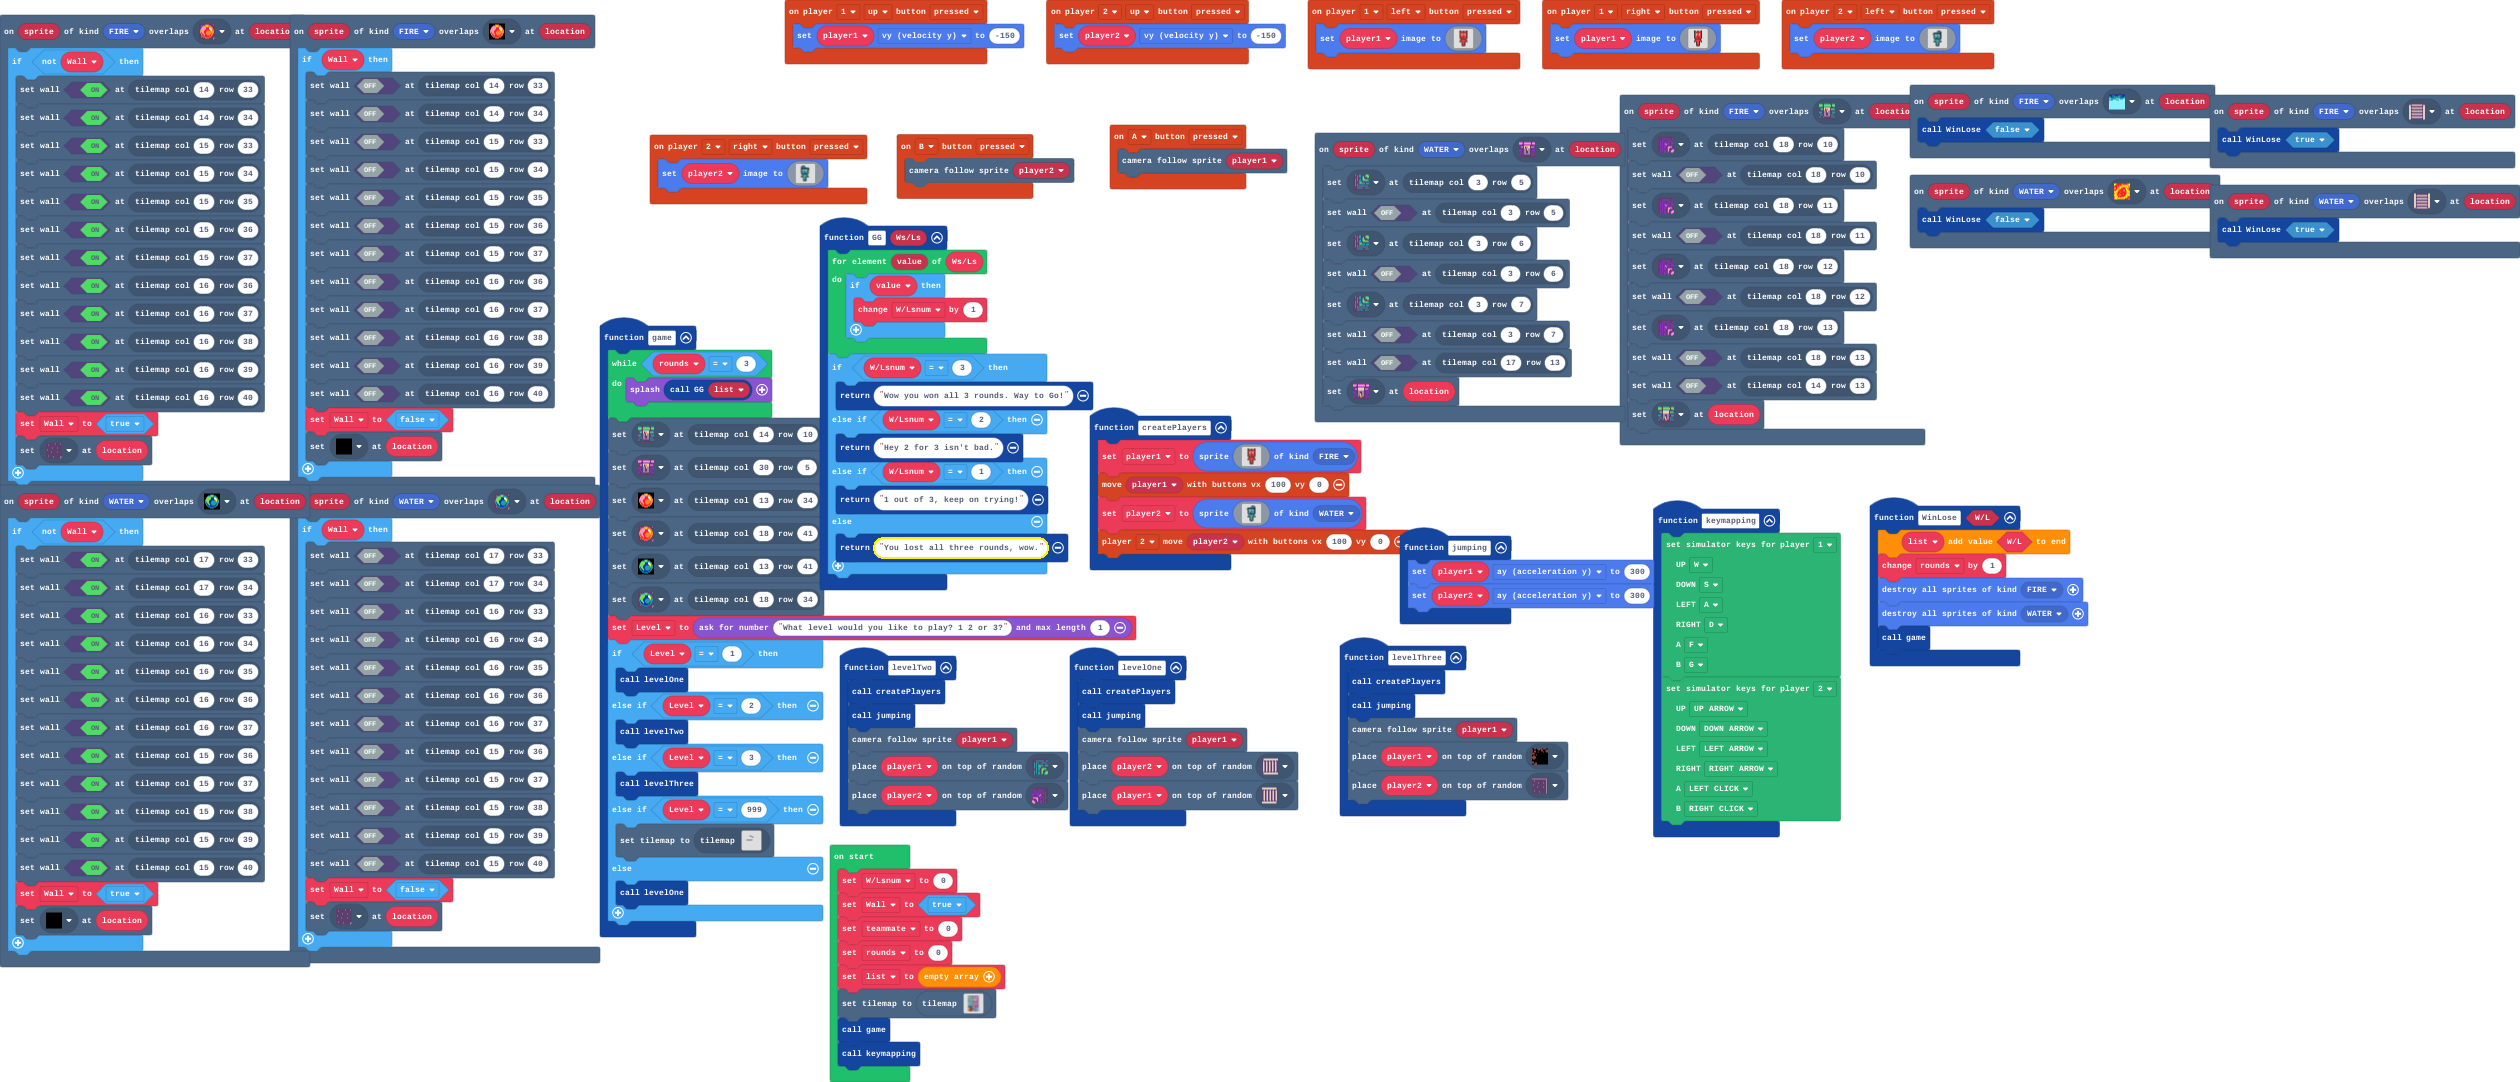
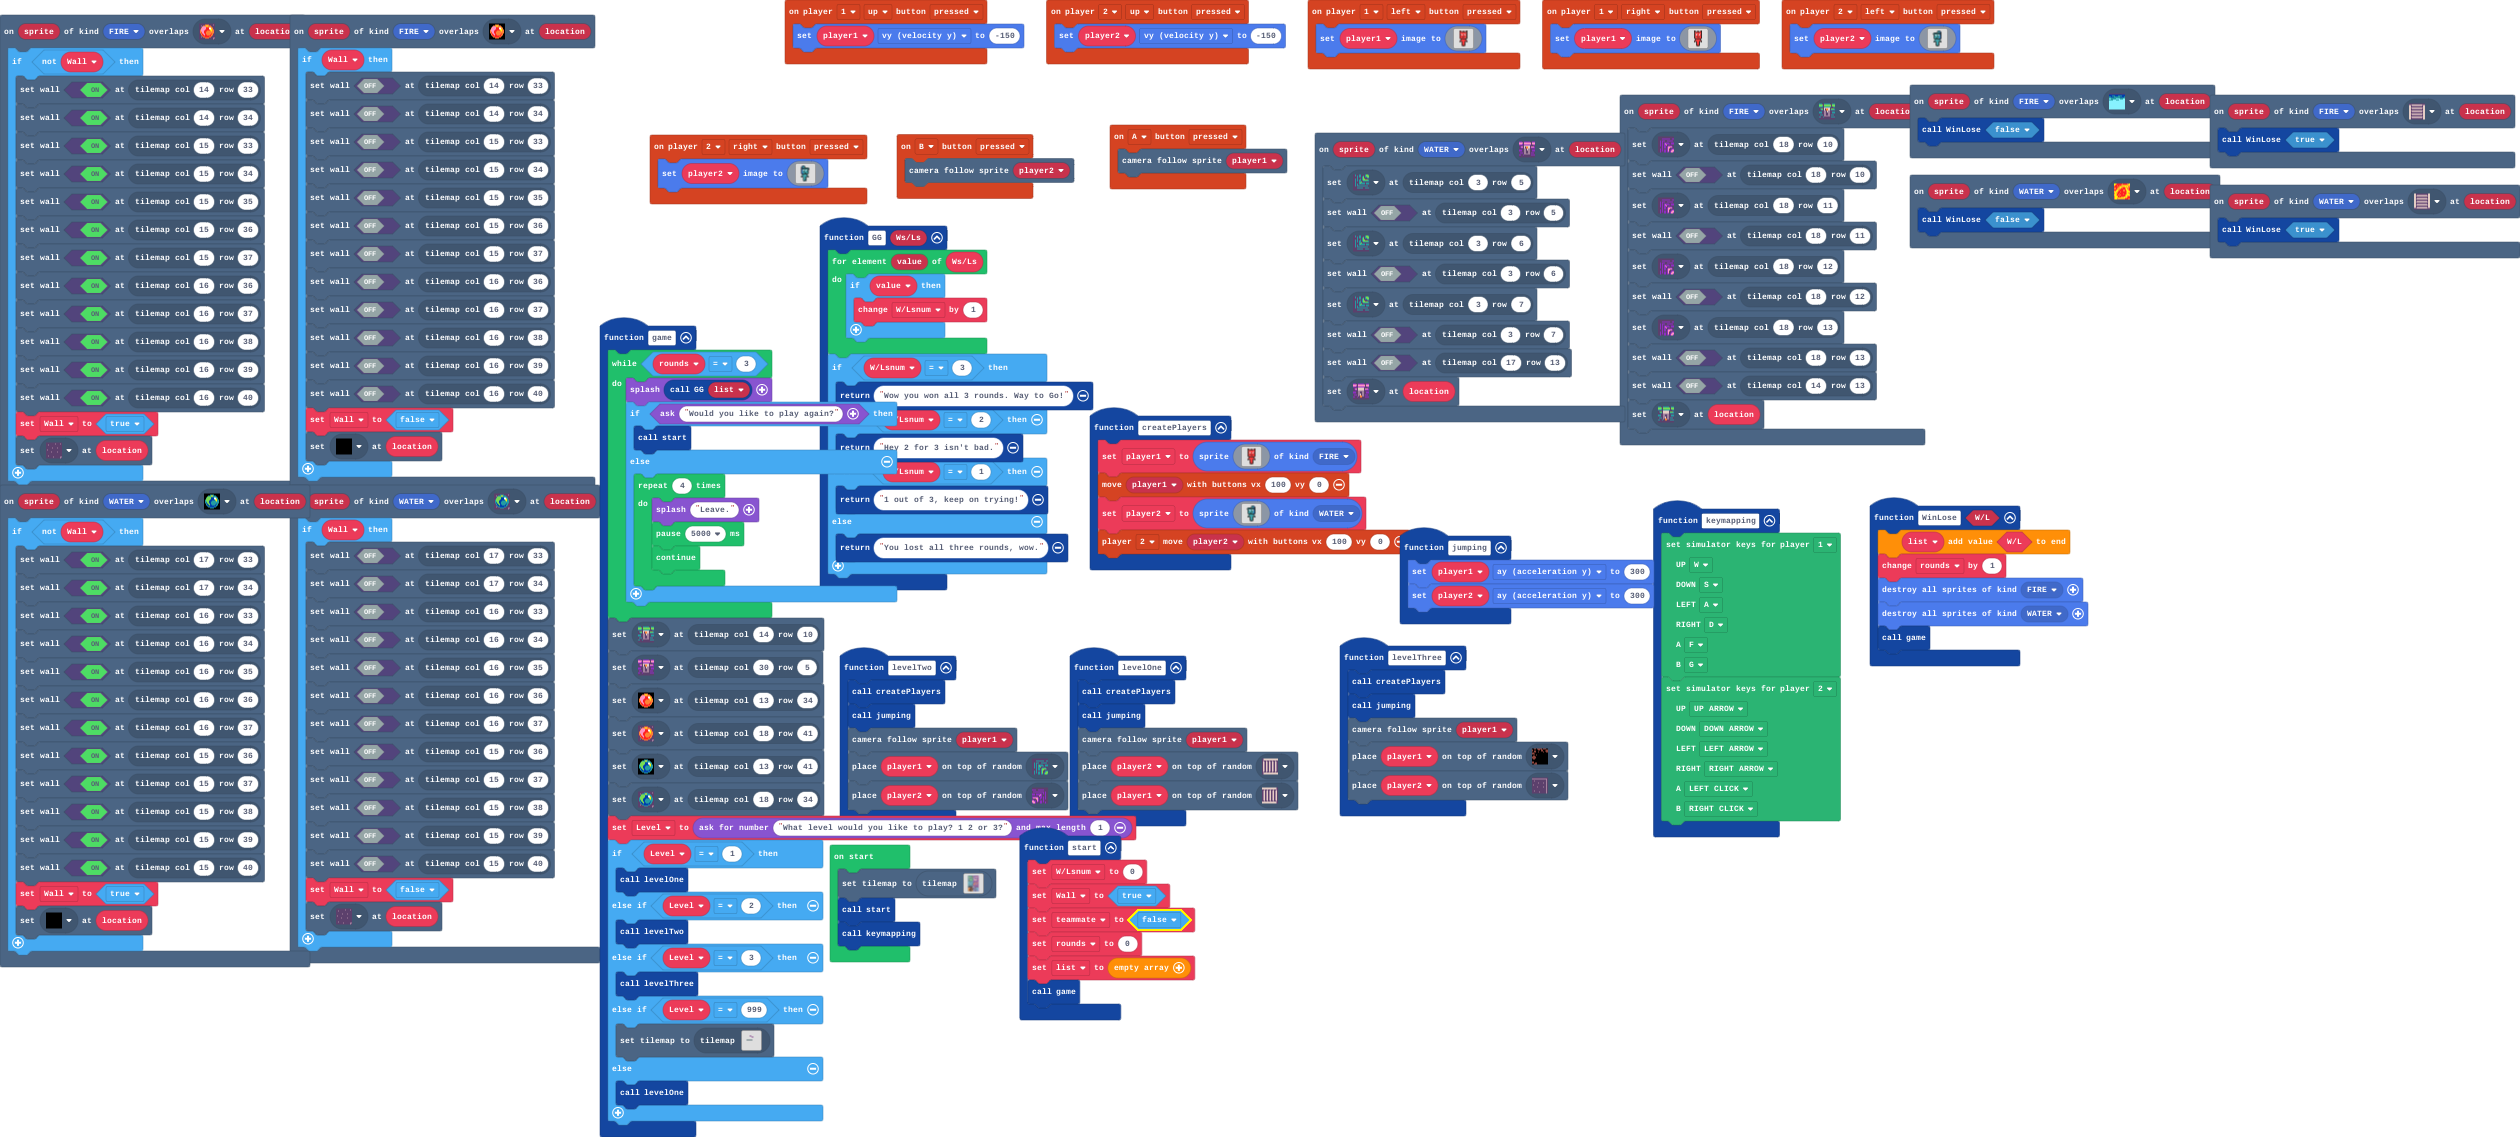
Update main.blocks, main.ts

diff --git a/main.ts b/main.ts
@@ -46,6 +46,15 @@ function jumping () {
 function game2 () {
     while (rounds == 3) {
         game.splash(GG(list))
+        if (game.ask("Would you like to play again?")) {
+            start()
+        } else {
+            for (let index = 0; index < 4; index++) {
+                game.splash("Leave.")
+                pause(5000)
+                continue;
+            }
+        }
     }
     tiles.setTileAt(tiles.getTileLocation(14, 10), sprites.dungeon.greenSwitchUp)
     tiles.setTileAt(tiles.getTileLocation(30, 5), sprites.dungeon.purpleSwitchUp)
@@ -319,6 +328,14 @@ function GG (WsLs: any[]) {
         return "You lost all three rounds, wow."
     }
 }
+function start () {
+    WLsnum = 0
+    Wall = true
+    teammate = false
+    rounds = 0
+    list = []
+    game2()
+}
 scene.onOverlapTile(SpriteKind.WATER, assets.tile`tile4`, function (sprite, location) {
     if (Wall) {
         tiles.setWallAt(tiles.getTileLocation(17, 33), false)
@@ -370,18 +387,14 @@ controller.player1.onButtonEvent(ControllerButton.Left, ControllerButtonEvent.Pr
         . . . . f . f . . . . 
         `)
 })
+let teammate = false
+let WLsnum = 0
 let Level = 0
-let player2: Sprite = null
-let player1: Sprite = null
 let list: boolean[] = []
 let rounds = 0
+let player2: Sprite = null
+let player1: Sprite = null
 let Wall = false
-let WLsnum = 0
-WLsnum = 0
-Wall = true
-let teammate = 0
-rounds = 0
-list = []
 tiles.setCurrentTilemap(tilemap`level5`)
-game2()
+start()
 keymapping()
